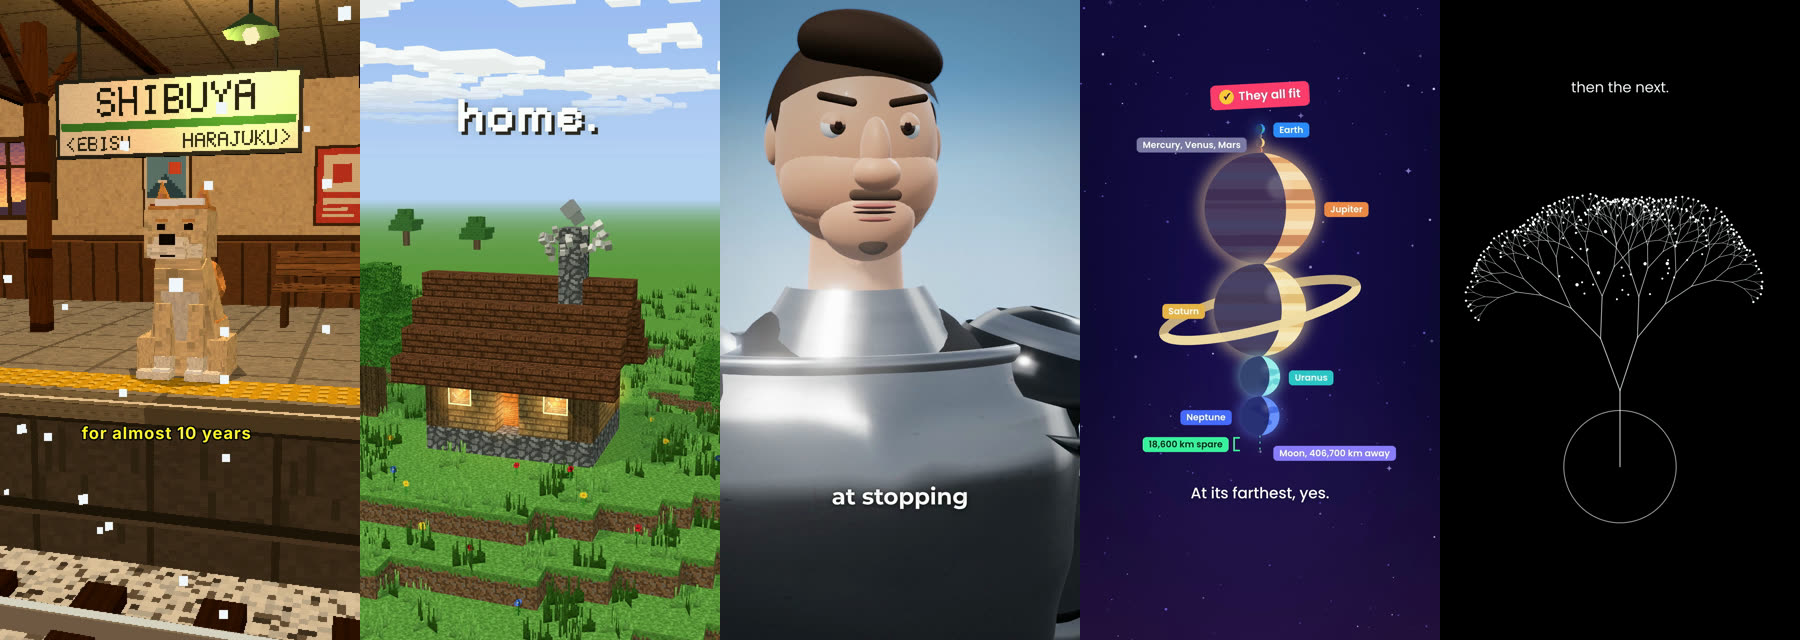
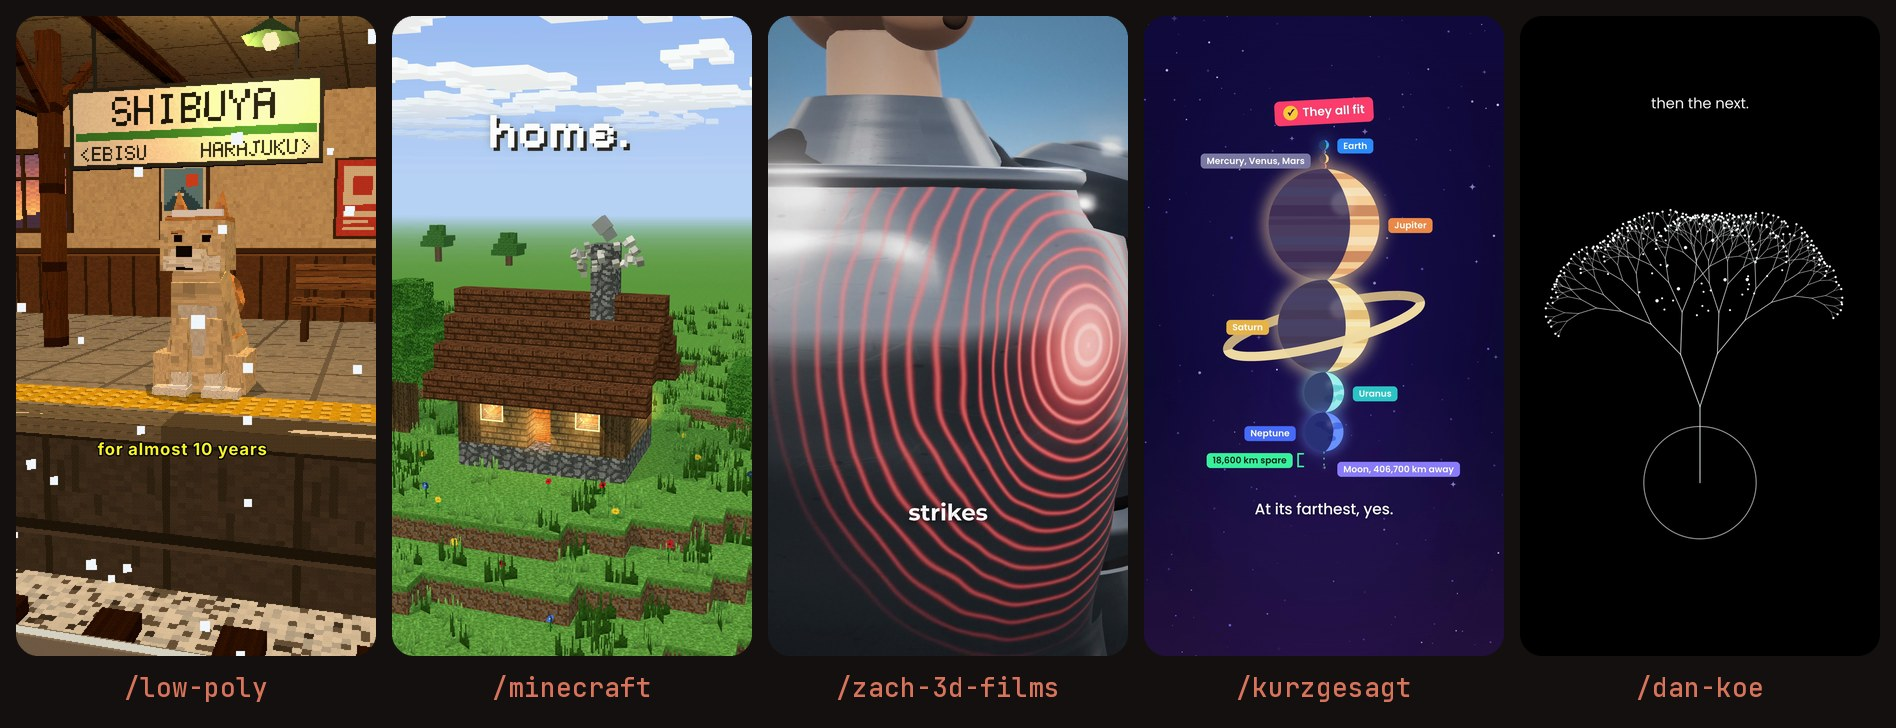
README: the five-styles image in the same look as the first one
Rounded tiles on the dark background with each skill's name under its frame, like docs/skills.jpg. The zach-3d-films tile shows the red ripple, so it doesn't repeat the arrow frame above.

diff --git a/README.md b/README.md
@@ -17,7 +17,7 @@ See them moving: **[novitckii.com/resources/animation-skills](https://novitckii.
 
 ### 5 animation styles (new)
 
-![The five styles, one frame each](docs/styles.jpg)
+![The five styles, one frame each: low-poly, minecraft, zach-3d-films, kurzgesagt, dan-koe](docs/styles.jpg)
 
 | Skill | What it makes | Try it with |
 |---|---|---|
